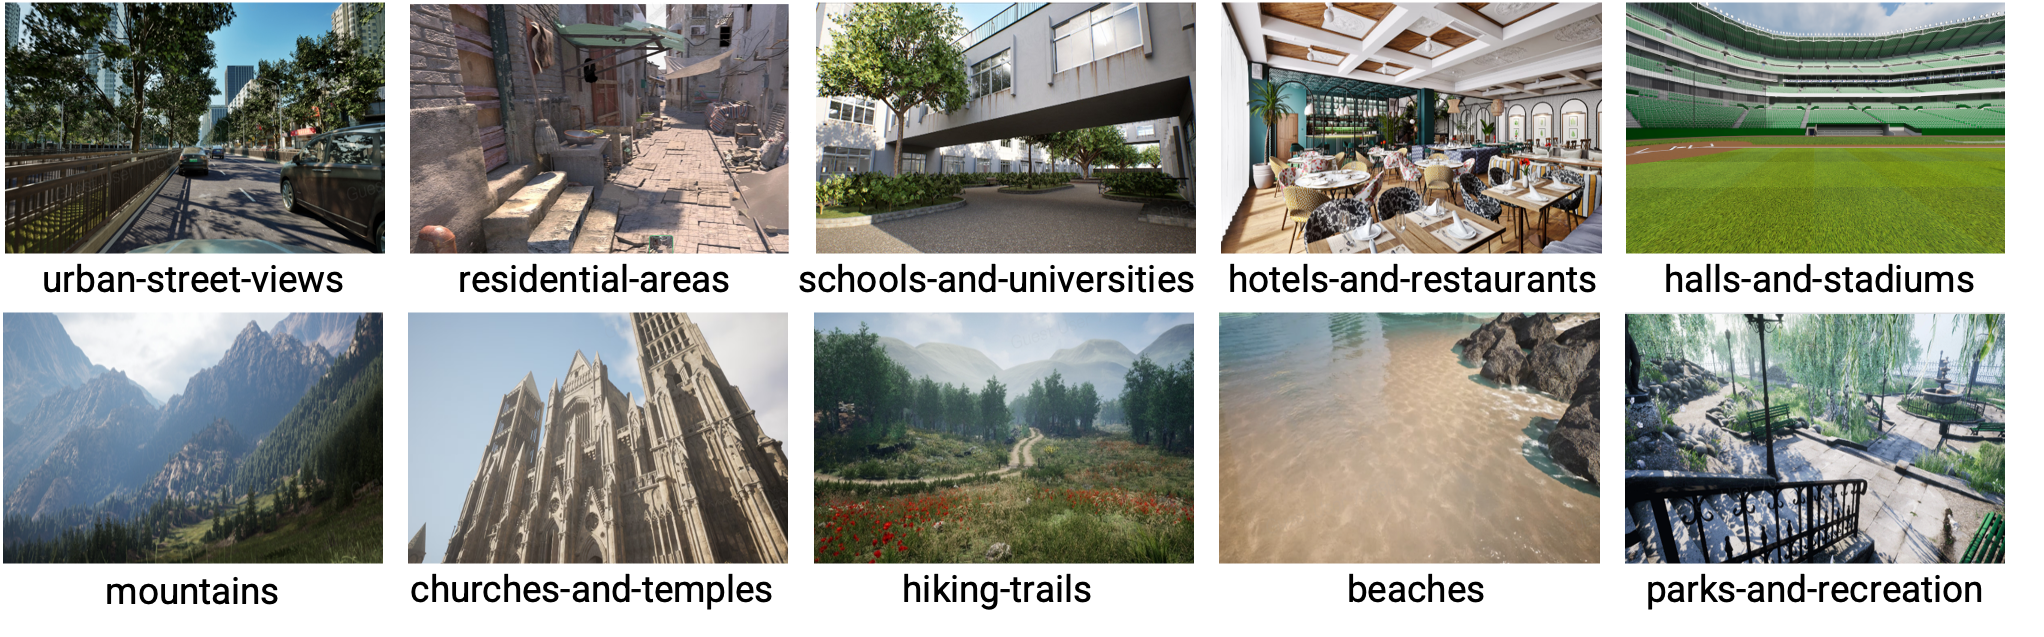
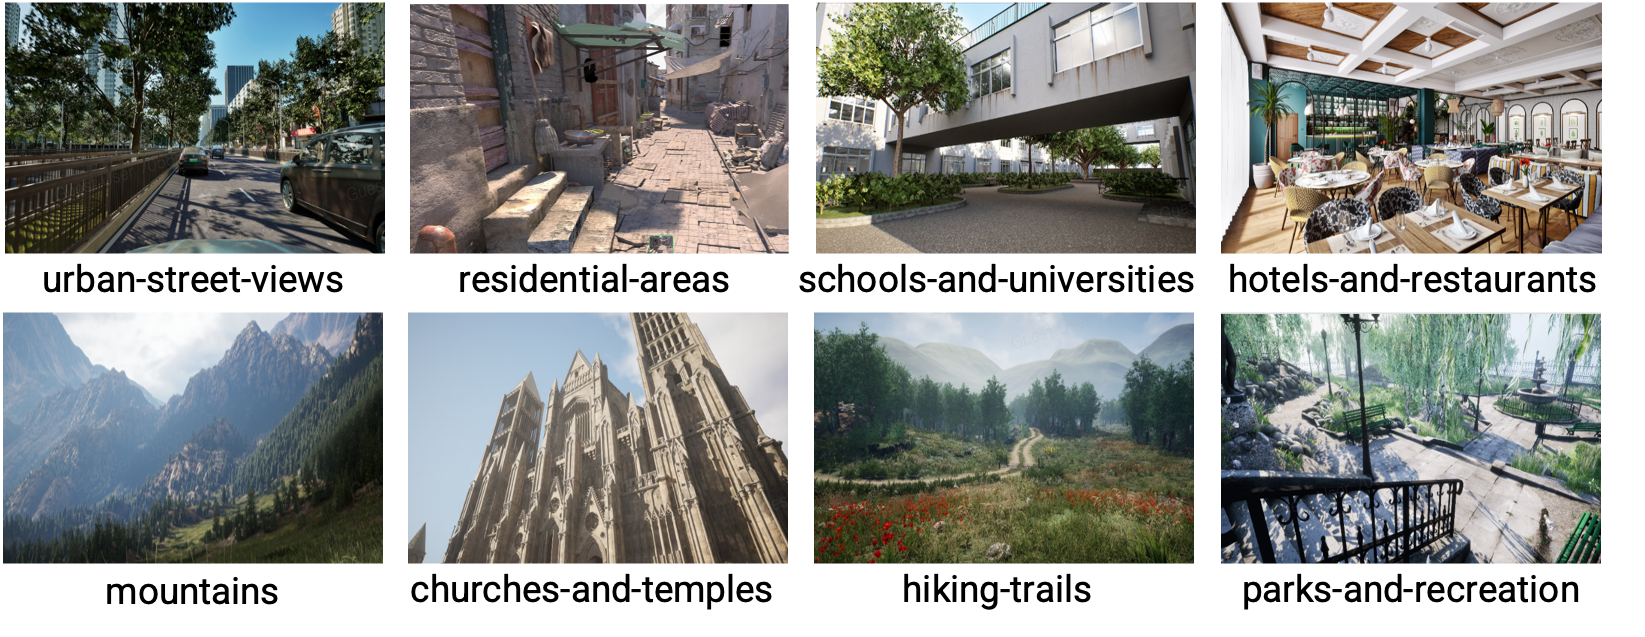
dataset change

diff --git a/challenges.html b/challenges.html
@@ -70,7 +70,7 @@
             featuring computer-synthesized virtual content. M<sup>3</sup>VIR further
             comprises two subsets, a multi-resolution subset M<sup>3</sup>VIR_MR for track 1~3 and 
             a multi-style subset M<sup>3</sup>VIR_MS for track 4. The entire M<sup>3</sup>VIR dataset 
-            covers 100 scenes from 10 categories (examples shown below), 10 scenes in each category. 
+            covers 80 scenes from 8 categories (examples shown below), 10 scenes in each category. 
             The UE5 Unreal Engine is employed where for each scene a variety of videos are simulated with 
             matching content to serve as ground-truth for the competition tasks.</p>
 
@@ -104,12 +104,12 @@
         <p style="text-align: justify; text-align-last: left;">To support the solution of transferring part
             of multi-view frames and generating the remaining frames by client. The task is to
             synthesize intermediate RGB frames from a sparse set of reference RGB frames in
-            multi-view videos. Only 600 sets of 1920x1080 videos with static scenes in  M<sup>3</sup>VIR_MR are used for Track 2.</p>
+            multi-view videos. Only 1920x1080 videos with static scenes in M<sup>3</sup>VIR_MR are used for Track 2.</p>
 
         <h3>Track 3: Novel View Synthesis & Super-Resolution</h3>
         <p style="text-align: justify; text-align-last: left;">A combination of
             track 1 & 2 to support the solution of transferring part of multi-view LR frames and
-            generating all HR frames by client. Track 3 also uses the 600 sets of videos with static scenes in  M<sup>3</sup>VIR_MR same as Track 2, 
+            generating all HR frames by client. Track 3 also uses the videos with static scenes in  M<sup>3</sup>VIR_MR same as Track 2, 
             but with all 3 different resolutions to support 2x and 3x SR</p>
 
         <h3>Evaluation</h3>            
@@ -132,7 +132,7 @@
         <p style="text-align: justify; text-align-last: left;"> Track 4 focuses on controlled video generation using ground-truth data from M<sup>3</sup>VIR_MS.
             The target is to edit specific objects in a photo-realistic video by spatial-temporal consistently changing the style of objects (to cartoon style or to metallic style). 
             Track 4 focus on a several foreground object categories: people, animals, cars, tables, coach-chairs, lights-lamps, etc. M<sup>3</sup>VIR_MS enables training and evaluating
-            content editing methods with ground-truth paired data. To reduce the difficulty of this challenging task and accommodate different possible solutions, only 18000 data samples
+            content editing methods with ground-truth paired data. To reduce the difficulty of this challenging task and accommodate different possible solutions, only data samples
              corresponding to the static scenes are used for evaluation. </p>
              
         <p style="text-align: justify; text-align-last: left;">Performance will be evaluated based on both objective quality metrics including PSNR, SSIM, LPIPS
@@ -140,59 +140,52 @@
 
         
         <h2>Datasets</h2>
-        <p>Two datasets will be used for the challenges, each with a training (80 scenes) and test (20 scenes) partition. 
-            Due to the large size, a small mini training set will be provided for each track, and participants can optionally use the full training dataset to 
-            enhance their performance. Training set will be released in 4 batches, 20 scenes in each batch, scheduled around April 5, April 19, May 03, and May 17. 
+        <p>Two datasets will be used for the challenges, each with a training (64 scenes) and test (16 scenes) partition. 
+            Due to the large size, a small mini training set will be provided for most tracks, and participants can optionally use the full training dataset to 
+            enhance their performance. Training set will be released in 4 batches, roughly 20 scenes in each batch, scheduled around April 15, April 25, May 05, and May 17. 
             Test set will be relased in June. </p>
         
         <h3>M<sup>3</sup>VIR_MR</h3>
-        <p style="text-align: justify; text-align-last: left;">For each of the 100 scenes, 3 sets of multi-modal 
+        <p style="text-align: justify; text-align-last: left;">For each of the 80 scenes, 3 sets of multi-modal 
             multi-view data packages are collected: dynamic scene with static camera; static scene with moving camera;
             dynamic scene with moving camera. Each set of data package comprises 6 sets of temporally synchronized 
             RGB videos from co-located cameras with 6 views. Each of the 6 sets further has videos at 3 different 
             resolutions: 960x540, 1920x1080, 2880x1620. In addition to RGB images, the corresponding pixel-level 
             synchronized semantic segmentation map and depth map are also provided. Each video is 2-sec long at 15fps.
-            In total, M<sup>3</sup>VIR_MR has 54000 data samples from 1800 sets of videos, each data sample
+            In total, M<sup>3</sup>VIR_MR has 43200 data samples from 1440 sets of videos, each data sample
             consisting of matching RGB images, segmentation maps and depth maps at 3 different
             resolutions. The corresponding intrinsic and 6-DoF extrinsic camera parameters for
             each frame are also provided. One data sample is shown below. 
-            80 scenes are used for training and 20 scenes are used for testing.</p>
+            64 scenes are used for training and 16 scenes are used for testing.</p>
             
             <img src="dataset/M3VIR_MR_example.png" alt="Dataset1 example " style="display: block; margin: auto; max-width: 100%; border-radius: 10px;">            
             
-            <p style="text-align: justify; text-align-last: left;">For track 1, the mini training set comprises randomly sampled 5% data samples 
-                (2160 data samples from 43200 training data samples), each data sample consisting of matching RGB images, depth and segmentaion maps at 3 resolutions.
+            <p style="text-align: justify; text-align-last: left;">For track 1, the mini training set comprises randomly sampled 10% data samples 
+                (3456 data samples from 34560 training data samples), each data sample consisting of matching RGB images, depth and segmentaion maps at 3 resolutions.
             </p>            
             <p><strong>Track 1: Full training set:</strong> <a href="#">[To be provided]</a></p>
             <p><strong>Track 1: Mini training set:</strong> <a href="#">[To be provided]</a></p>
 
-            <p style="text-align: justify; text-align-last: left;">For track 2, only 600 videos corresponding to static scene 
-                with moving camera at 1080p resolution is used. The mini training set comprises 1/3 data samples (4800 from 14400 training data samples), 
-                where only the first 10 frames of each video is used. Each data sample consisting of matching RGB images, depth and segmentaion maps at 1080p.</p>            
+            <p style="text-align: justify; text-align-last: left;">For track 2, only videos corresponding to static scene 
+                with moving camera at 1080p resolution are used. Each data sample consisting of matching RGB images, depth and segmentaion maps at 1080p.</p>            
             <p><strong>Track 2: Full training set:</strong> <a href="#">[To be provided]</a></p>
-            <p><strong>Track 2: Mini training set:</strong> <a href="#">[To be provided]</a></p>
 
-            <p style="text-align: justify; text-align-last: left;">For track 3, only 600 videos corresponding to static scene 
-                with moving camera is used. The mini training set comprises 1/6 data samples (2400 from 14400 training data samples), 
-                where only the first 5 frames of each video is used. Each data sample consisting of matching RGB images, depth and segmentaion maps at 3 resolutions.</p>            
+            <p style="text-align: justify; text-align-last: left;">For track 3, only videos corresponding to static scene 
+                with moving camera are used. Each data sample consisting of matching RGB images, depth and segmentaion maps at 3 resolutions.</p>            
             <p><strong>Track 3: Full training set:</strong> <a href="#">[To be provided]</a></p>
-            <p><strong>Track 3: Mini training set:</strong> <a href="#">[To be provided]</a></p>
             
 
         <h3>M<sup>3</sup>VIR_MS</h3>
         <p style="text-align: justify; text-align-last: left;">The multi-style M3VIR_MS dataset aims to facilitate research on controlled video generation. From the 
             54000 data samples in the above M<sup>3</sup>VIR_MR, 
             videos with 1920x1080 resolution are taken out, and for each video, a cartoon-style video and a metallic-style video are rendered with the same geometry. 
-            That is, M<sup>3</sup>VIR_MS contains 54000 data samples, each comprising 3 videos having matching geometry at the frame level and with 3 styles, photo-realistic, 
+            That is, M<sup>3</sup>VIR_MS contains 43200 data samples, each comprising 3 videos having matching geometry at the frame level and with 3 styles, photo-realistic, 
             cartoon, and metallic, as well as the corresponding segmentation map, depth map, and camera intrinsic and extrinsic parameters. An example is shown below. 
-            Same as M<sup>3</sup>VIR_MR, 80 scenes are used for training and 20 scenes are used for testing.</p>
+            Same as M<sup>3</sup>VIR_MR, 64 scenes are used for training and 16 scenes are used for testing.</p>
             
-            <img src="dataset/M3VIR_MS_example.png" alt="Dataset2 example" style="display: block; margin: auto; max-width: 100%; border-radius: 10px;">            
+            <img src="dataset/M3VIR_MS_example.png" alt="Dataset2 example" style="display: block; margin: auto; max-width: 100%; border-radius: 10px;">                      
             
-            <p style="text-align: justify; text-align-last: left;">For track 4, the mini training set comprises 1/6 data samples (7200 from 43200 training data samples), 
-                where only the first 5 frames of each video is used. Each data sample consisting of matching RGB images, depth and segmentaion maps with 3 styles.</p>            
             <p><strong>Full training set:</strong> <a href="#">[To be provided]</a></p>
-            <p><strong>Mini training set:</strong> <a href="#">[To be provided]</a></p>
                     
 
     <p style="text-align: justify; text-align-last: left;">For all tracks, the dataset also contains the camera intrinsic and extrinsic parameters</p>            
